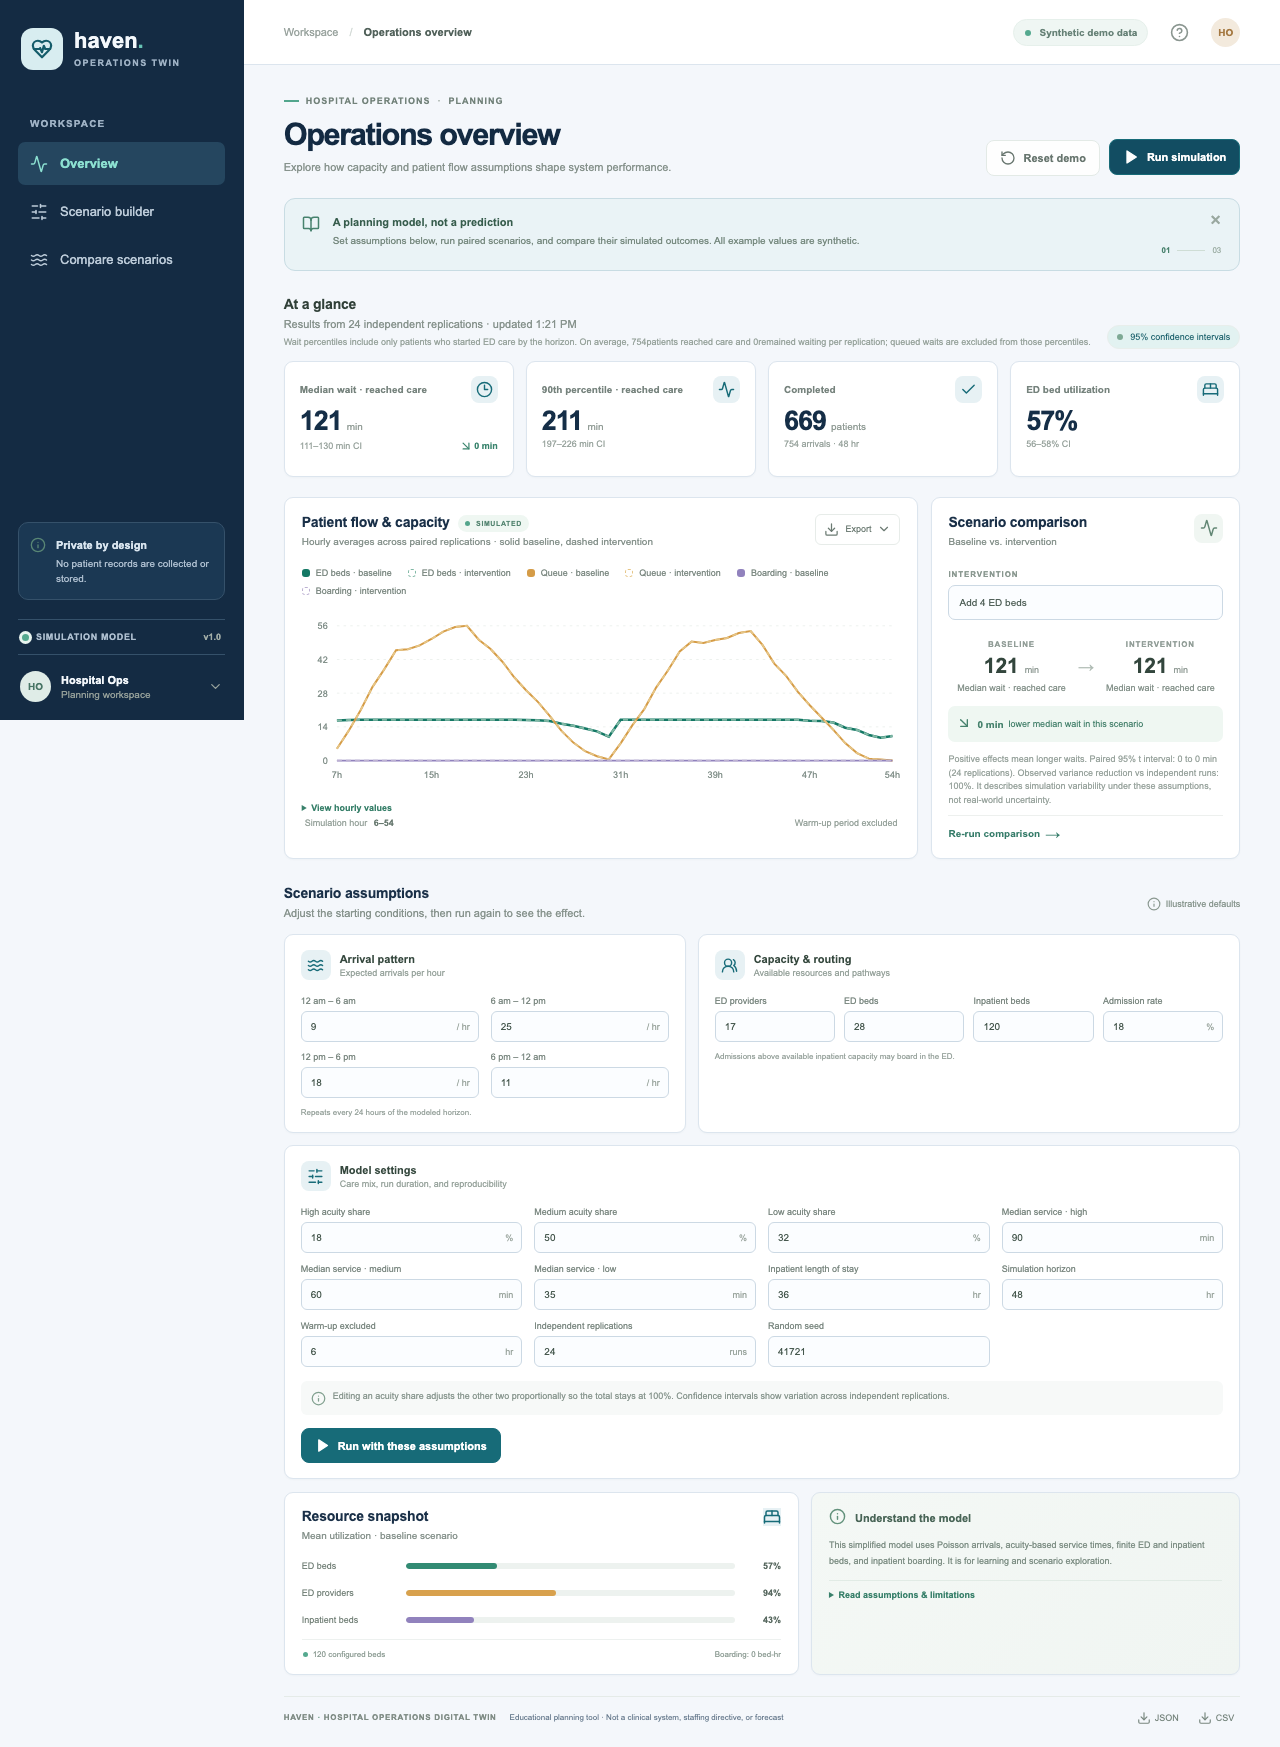
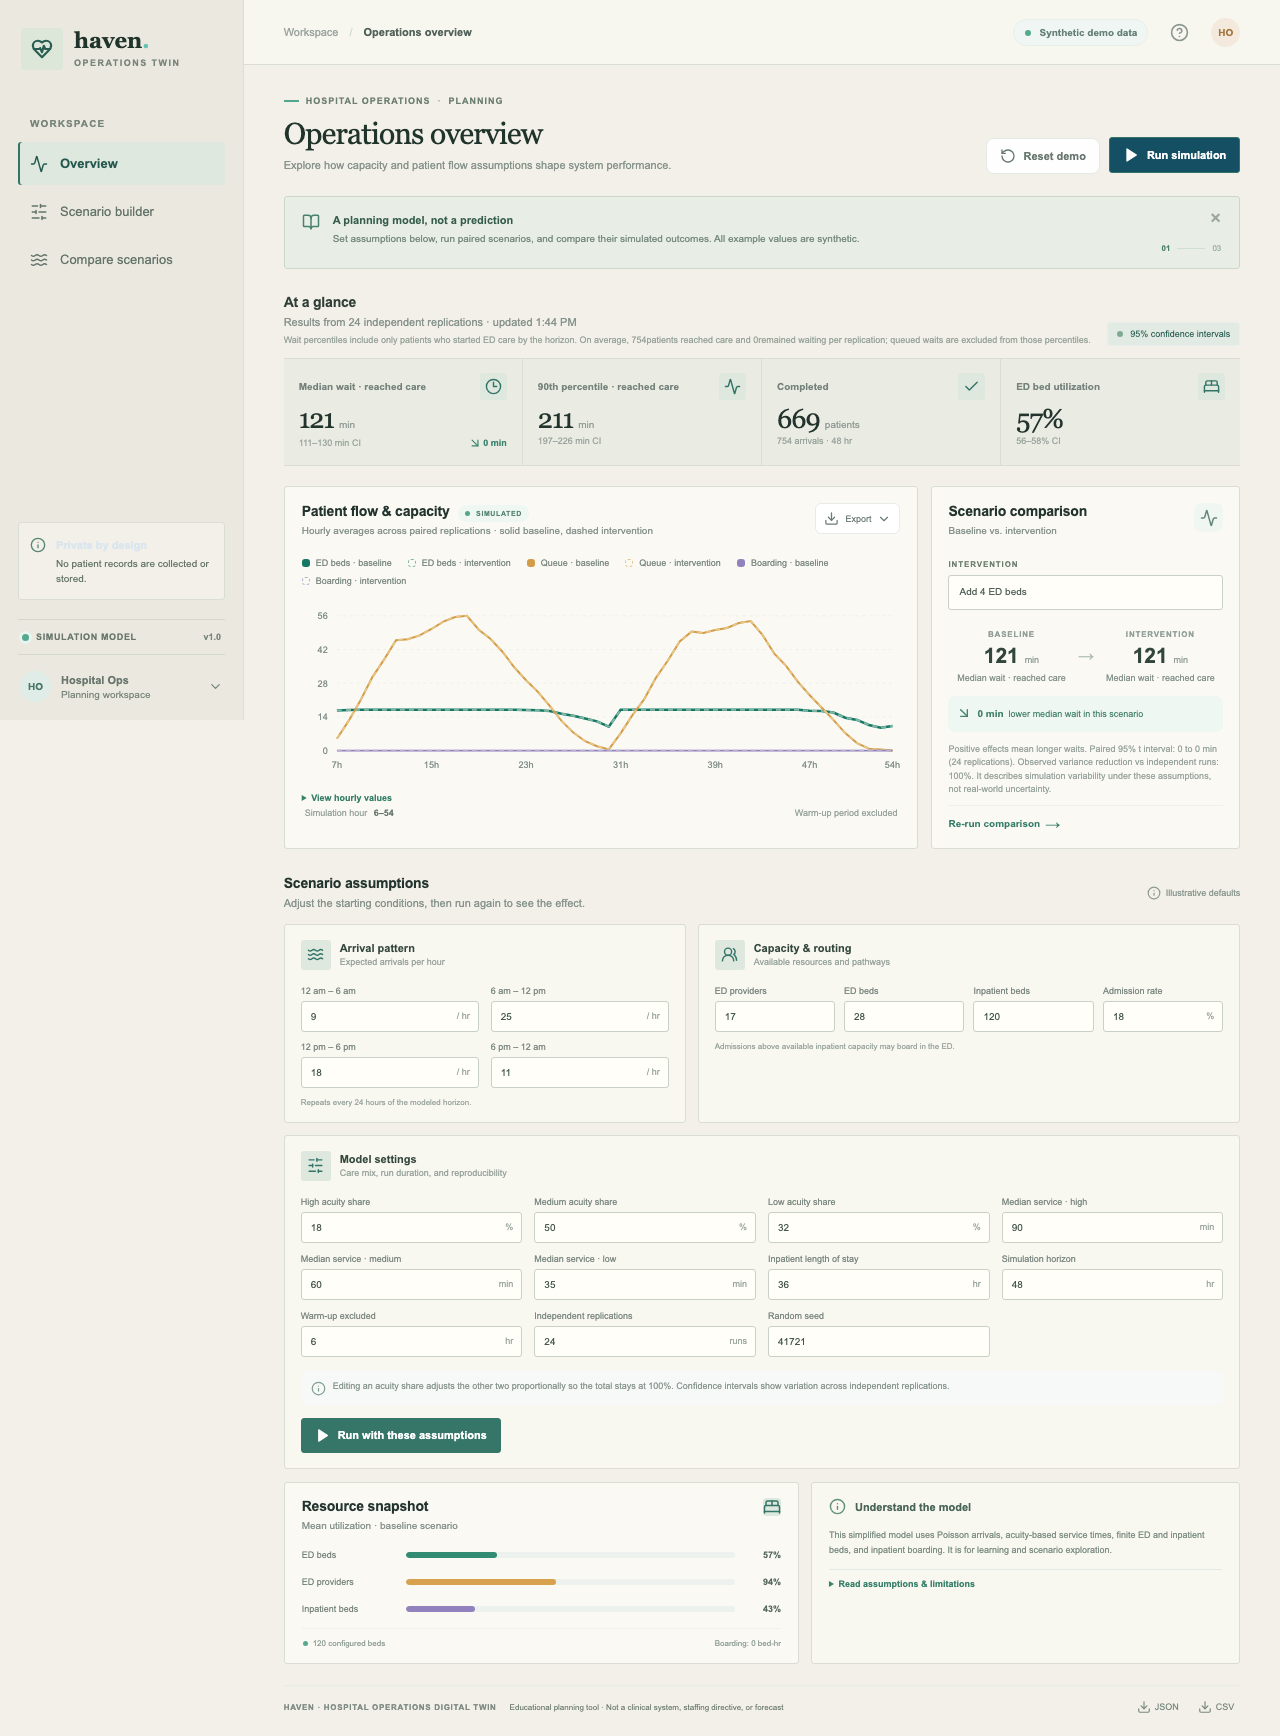
Refine hospital research interface art direction

diff --git a/src/styles.css b/src/styles.css
@@ -1378,3 +1378,54 @@ body { color: var(--ink); background: #f4f7fb; font-size: 14px; }
 .page-footer { color: #687b8e; }
 @media (max-width: 820px) { .page-wrap { padding-top: 20px; } .metric-value { font-size: clamp(20px, 6vw, 28px); } }
 @media (max-width: 560px) { .main-content { min-width: 0; } .panel, .assumption-panel, .model-note { border-radius: 8px; } .page-heading h1 { font-size: 24px; } }
+
+/* Research-lab direction: mineral paper, forest ink, and evidence-first hierarchy. */
+:root {
+  color: #23332d;
+  background: #f2f0e8;
+  --ink: #23332d;
+  --muted: #6f7c73;
+  --green: #327467;
+  --green-dark: #24584e;
+  --line: #d9ddd3;
+  --paper: #faf9f4;
+  --mint: #e8eee6;
+  --amber: #ad742b;
+}
+body, .main-content { color: var(--ink); background: #f2f0e8; }
+.sidebar { background: #ebe9df; border-color: #d9ddd3; color: var(--ink); }
+.brand { color: #20342c; font-family: Georgia, "Times New Roman", serif; font-weight: 700; }
+.brand small, .workspace-label { color: #78847a; }
+.brand-mark { color: #285e51; background: #dce6d9; border-radius: 4px; }
+.nav-link { color: #65746a; border-radius: 3px; }
+.nav-link:hover { background: #e3e4d9; color: var(--ink); }
+.nav-link.active { color: #24584e; background: #dfe8df; box-shadow: inset 2px 0 #327467; }
+.privacy-box { background: #f2f0e8; border-color: #d9ddd3; border-radius: 3px; }
+.privacy-box p { color: #657469; }
+.model-tag, .profile { border-color: #d4d8ce; }
+.model-tag, .profile strong { color: #68766c; }
+.model-tag span:last-child, .profile small, .profile > svg { color: #78847a; }
+.topbar { background: #f7f6ef; border-color: #d9ddd3; }
+.page-wrap { max-width: 1480px; }
+.page-heading h1 { color: #20342c; font: 500 30px/1.12 Georgia, "Times New Roman", serif; letter-spacing: -.025em; }
+.eyebrow, .field-label { color: #6d7f70; }
+.button-primary { background: #327467; border-color: #327467; border-radius: 3px; }
+.guide-card { background: #e8eee6; border-color: #cbd7cb; border-radius: 3px; }
+.metric-grid { gap: 0; background: #eaece3; border-block: 1px solid #d9ddd3; }
+.metric-card { min-height: 106px; background: transparent; border: 0; border-right: 1px solid #d9ddd3; border-radius: 0; box-shadow: none; }
+.metric-card:last-child { border-right: 0; }
+.metric-value { color: #23332d; font-family: Georgia, "Times New Roman", serif; font-weight: 500; }
+.metric-icon, .heading-icon, .assumption-icon { color: #327467; background: #dfe8df; border-radius: 3px; }
+.confidence-tag { color: #24584e; background: #e1ebe3; border-radius: 3px; }
+.panel, .assumption-panel, .model-note { border-color: #d9ddd3; border-radius: 3px; box-shadow: none; }
+.panel { background: #faf9f4; }
+.panel-heading h2, .scenario-heading h2 { color: #23332d; }
+.assumption-panel, .model-note { background: #f8f7f0; }
+.assumption-panel input, .compare-panel select { border-color: #c9d1c6; border-radius: 3px; background: #fffef9; }
+.assumption-panel input:focus, .compare-panel select:focus { border-color: #327467; box-shadow: 0 0 0 2px #32746722; }
+.page-footer { color: #6f7c73; }
+@media (max-width: 560px) {
+  .metric-grid { grid-template-columns: repeat(2, minmax(0, 1fr)); }
+  .metric-card:nth-child(2) { border-right: 0; }
+  .metric-card:nth-child(-n+2) { border-bottom: 1px solid #d9ddd3; }
+}
